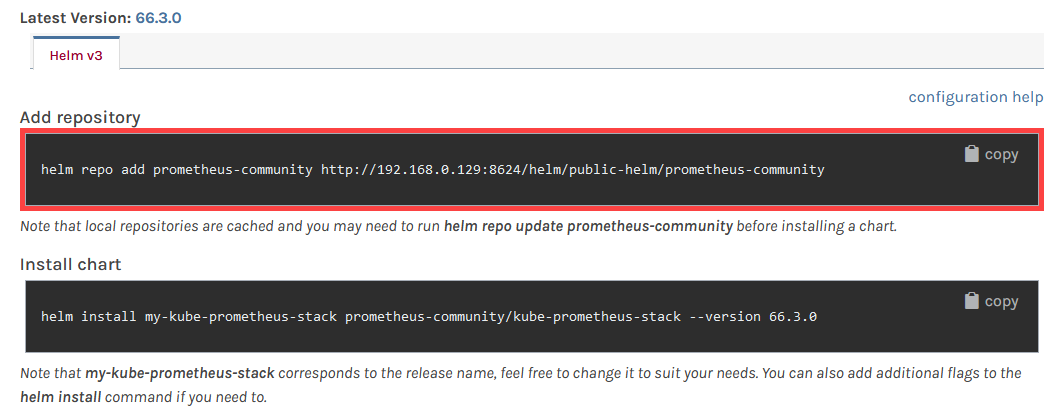
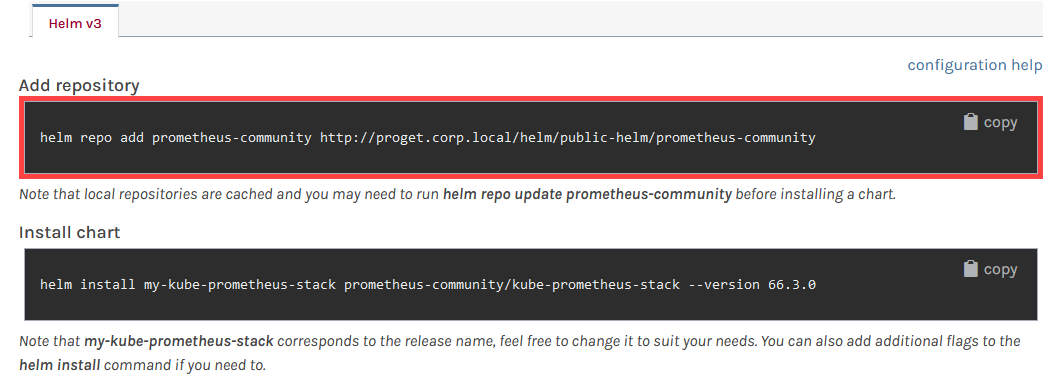
edits

diff --git a/Content/proget/feeds/helm/howto-helm-proxy.md b/Content/proget/feeds/helm/howto-helm-proxy.md
@@ -1,11 +1,11 @@
 ---
-title: "HOWTO: Proxy Helm Charts from Public Repositories in ProGet"
+title: "HOWTO: Proxy Helm Charts from ArtifactHub in ProGet"
 order: 1
 ---
 
 In ProGet, [Helm](https://helm.sh/) Charts can be stored and distributed through a Helm ["Feed"](/docs/proget/feeds/feed-overview), functioning as a [Chart Repository](https://helm.sh/docs/topics/chart_repository/) that can proxy third party [Charts](https://helm.sh/docs/topics/charts/) from other sources, including [Artifact Hub](/docs/proget/feeds/helm#artifacthub). This lets you to build a curated list of approved Helm Charts. You can also cache charts, allowing teams to access them if external sources are down, as well as tell which charts are being downloaded and used frequently.
 
-This guide will walk you through setting up a ProGet feed as a Helm repository to proxy third-party charts. Additionally, we’ll cover how to create a private repository for your own internal charts.
+This guide will walk you through setting up a ProGet feed as a Helm repository to proxy third-party charts from ArtifactHub. Additionally, we’ll cover how to create a private repository for your own internal charts.
 
 ## Step 1: Create a New Helm Feed { #create-feed }
 
@@ -23,28 +23,22 @@ We are then presented with several options that will let you configure ProGet's 
 
 ## Step 2: Adding the Helm Feed as a Repository { #add-feed }
 
-To install chart from your `public-helm` feed, it needs to be registered as a repository. You can use the [`helm repo add`](https://helm.sh/docs/helm/helm_repo_add/) command to do this. We recommend using `proget` as the repository name or, if you have multiple Helm feeds configured, you should use `proget-«feed-name»` instead. For example, if adding your `public-helm` feed on the ProGet server `proget.corp.local`, you would enter:
- 
-```bash
-$ helm repo add proget http://proget.corp.local/helm/public-helm
-```
+To install chart from your `public-helm` feed, it needs to be registered as a repository. You can use the [`helm repo add`](https://helm.sh/docs/helm/helm_repo_add/) command to do this. 
 
-### Adding a Helm Feed When Proxying from Artifact Hub { #add-artifact-hub}
-
-If your public-helm feed is set up to proxy Helm charts from ArtifactHub, adding it as a repository in Helm requires slightly different steps. This is because Artifact Hub is not a Helm repository itself, but an aggregator of Helm repositories.
+It's important to note that Artifact Hub is not a Helm repository itself, but an aggregator of Helm repositories. This means that you cannot simply use your public-helm feed URL to add it as a repository. Instead you'll need to add a specific URL based on the repository name. 
 
 Helm charts sourced from Artifact Hub are always labeled with the repository name as a prefix. For instance, the `kube-prometheus-stack` chart will be listed as `prometheus-community/kube-prometheus-stack` in ProGet.
 
 ![](/resources/docs/proget-helm-chart-name.png){height="" width="50%"}
 
-To install Helm packages from these repositories, you’ll need to add a specific URL based on the repository name. Instructions for this can be found on the Helm chart overview page in ProGet and will typically resemble the following:
+To add these repositories, you'll need the URL found on the Helm chart overview page in ProGet, which will typically resemble the following:
 
 ![](/resources/docs/proget-helm-chart-url.png){height="" width="50%"}
-
-For example, to add the `prometheus-community` repository in order to install `kube-prometheus-stack` you would enter:
+ 
+For example, to add the `prometheus-community` repository to let you install the `kube-prometheus-stack` chart you would enter:
 
 ```bash
-helm repo add prometheus-community http://192.168.0.129:8624/helm/public-helm/prometheus-community
+helm repo add prometheus-community http://proget.corp.local/helm/public-helm/prometheus-community
 ```
 
 ## Step 3: (Optional) Authenticating to Your Helm Feed
@@ -53,17 +47,9 @@ By default your `public-helm` feed does not require authentication to install or
 
 ## Step 4: Installing Helm Charts
 
-Once you have configured your `public-helm` feed as a repository, you can install Helm charts using the [`helm install`](https://helm.sh/docs/helm/helm_install/) command. For example, installing the chart `MyChart` from a repository you have configured with the name `proget`, you would enter:
+Once you have configured your `public-helm` feed as a repository, you can install Helm charts using the [`helm install`](https://helm.sh/docs/helm/helm_install/) command. 
 
-```bash
-helm install proget/MyChart
-```
-
-As Helm caches repository information locally, we recommend running the [helm repo update](https://helm.sh/docs/helm/helm_repo_update/) command first to ensure you'll get the latest version of the chart.
-
-### Installing Helm Charts Proxied from Artifact Hub
-
-When installing Helm Charts from Artifact Hub you will need to make sure that the [correct repository has been added](#add-artifact-hub). You will also need to include the version when using the `helm install` command. For example, when installing version `66.3.0` of the `kube-prometheus-stack` Helm Chart you would enter:
+When installing Helm Charts from Artifact Hub you will need to make sure that the [correct repository has been added](#add-artifact-hub). You will also need to include the version when using the `helm install` command. For example, when installing version `66.3.0` of the `kube-prometheus-stack` Helm chart you would enter:
 
 ```bash
 helm install my-kube-prometheus-stack prometheus-community/kube-prometheus-stack --version 66.3.0
@@ -72,6 +58,8 @@ helm install my-kube-prometheus-stack prometheus-community/kube-prometheus-stack
 :::(info)
 Note that `my-kube-prometheus-stack` corresponds to the release name, and can be changed to suit your needs. You can also add [additional flags](https://helm.sh/docs/helm/helm_install/#options) to the `helm install` command if you need to.
 :::
+
+As Helm caches repository information locally, we recommend running the [helm repo update](https://helm.sh/docs/helm/helm_repo_update/) command first to ensure you'll get the latest version of the chart.
 
 ## (Optional) Creating a Package Approval Flow
 
